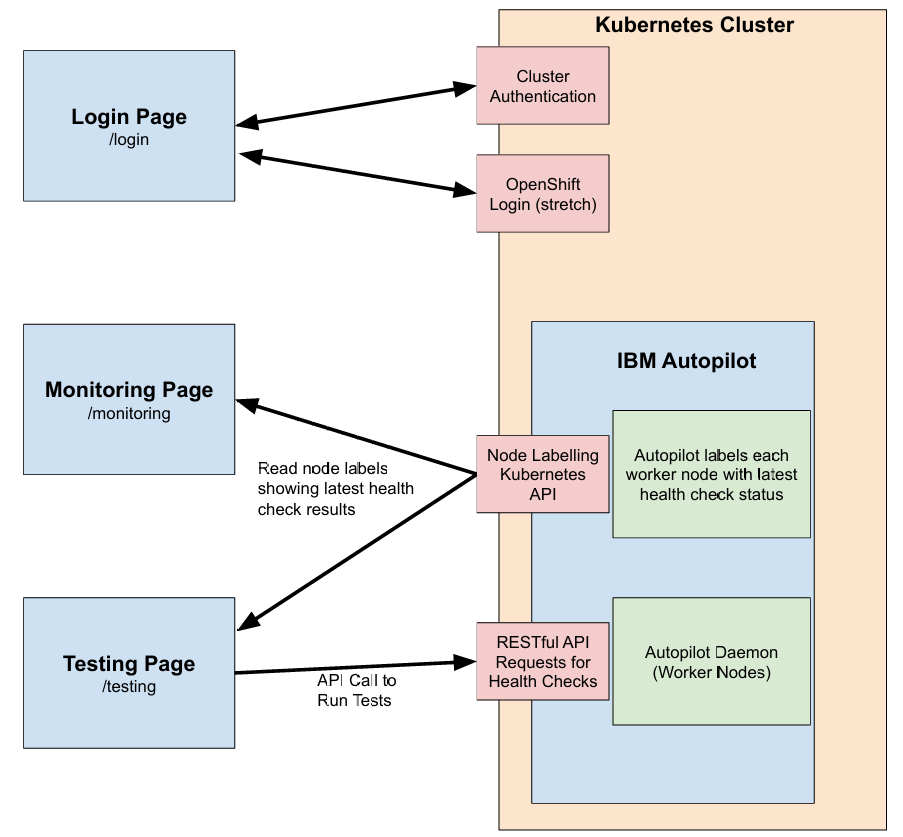
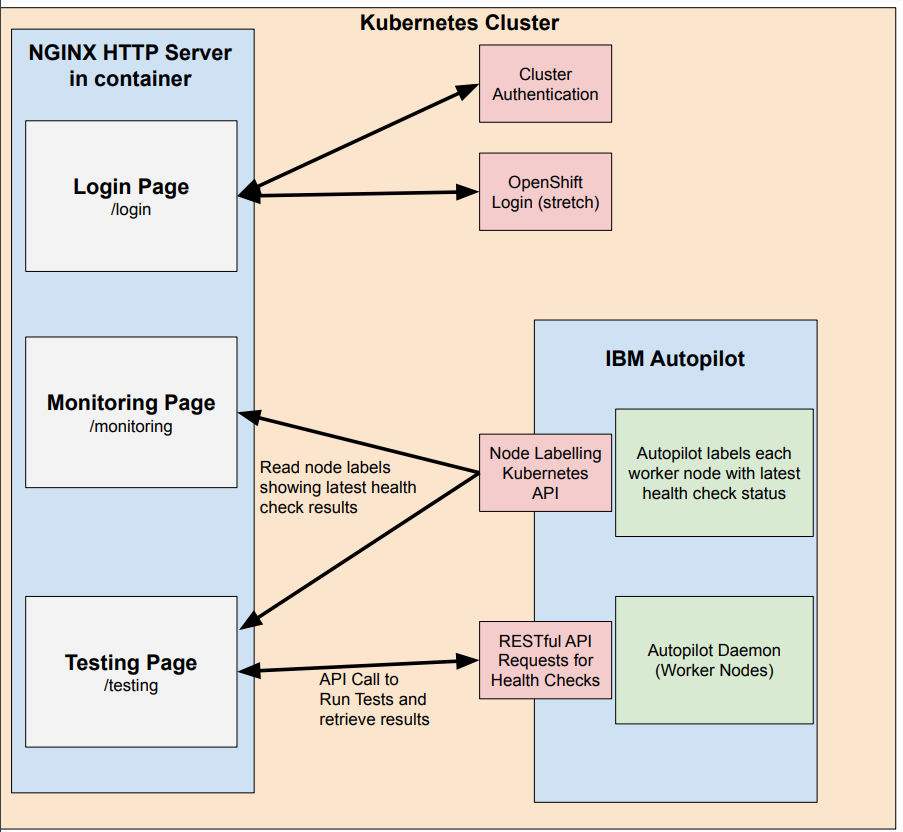
edited README to specify that web app is hosted on HTTP NGINX server running on the cluster

diff --git a/README.md b/README.md
@@ -77,7 +77,7 @@ The Autopilot Dashboard UI will be in React.js and will include 3 key pages. The
 
 ![Architecture Diagram](images/architecture.png)
 
-The diagram above illustrates the architecture for the IBM Autopilot Dashboard. It consists of three primary pages: Login Page, Monitoring Page, and Testing Page. These pages interact with the Kubernetes cluster running Autopilot.
+The diagram above illustrates the architecture for the IBM Autopilot Dashboard. It consists of three primary pages: Login Page, Monitoring Page, and Testing Page. These pages are hosted on a HTTP NGINX server running within a container on the Kubernetes cluster.
 
 * The **Login Page** allows for user authentication to the cluster, integrating OpenShift login (stretch goal), and grants either admin or viewer access based on credentials.
 * The **Monitoring Page** fetches the most recent health check results from Autopilot’s labelling of the worker nodes (using the Kubernetes API), allowing users to view the status of the worker nodes.
